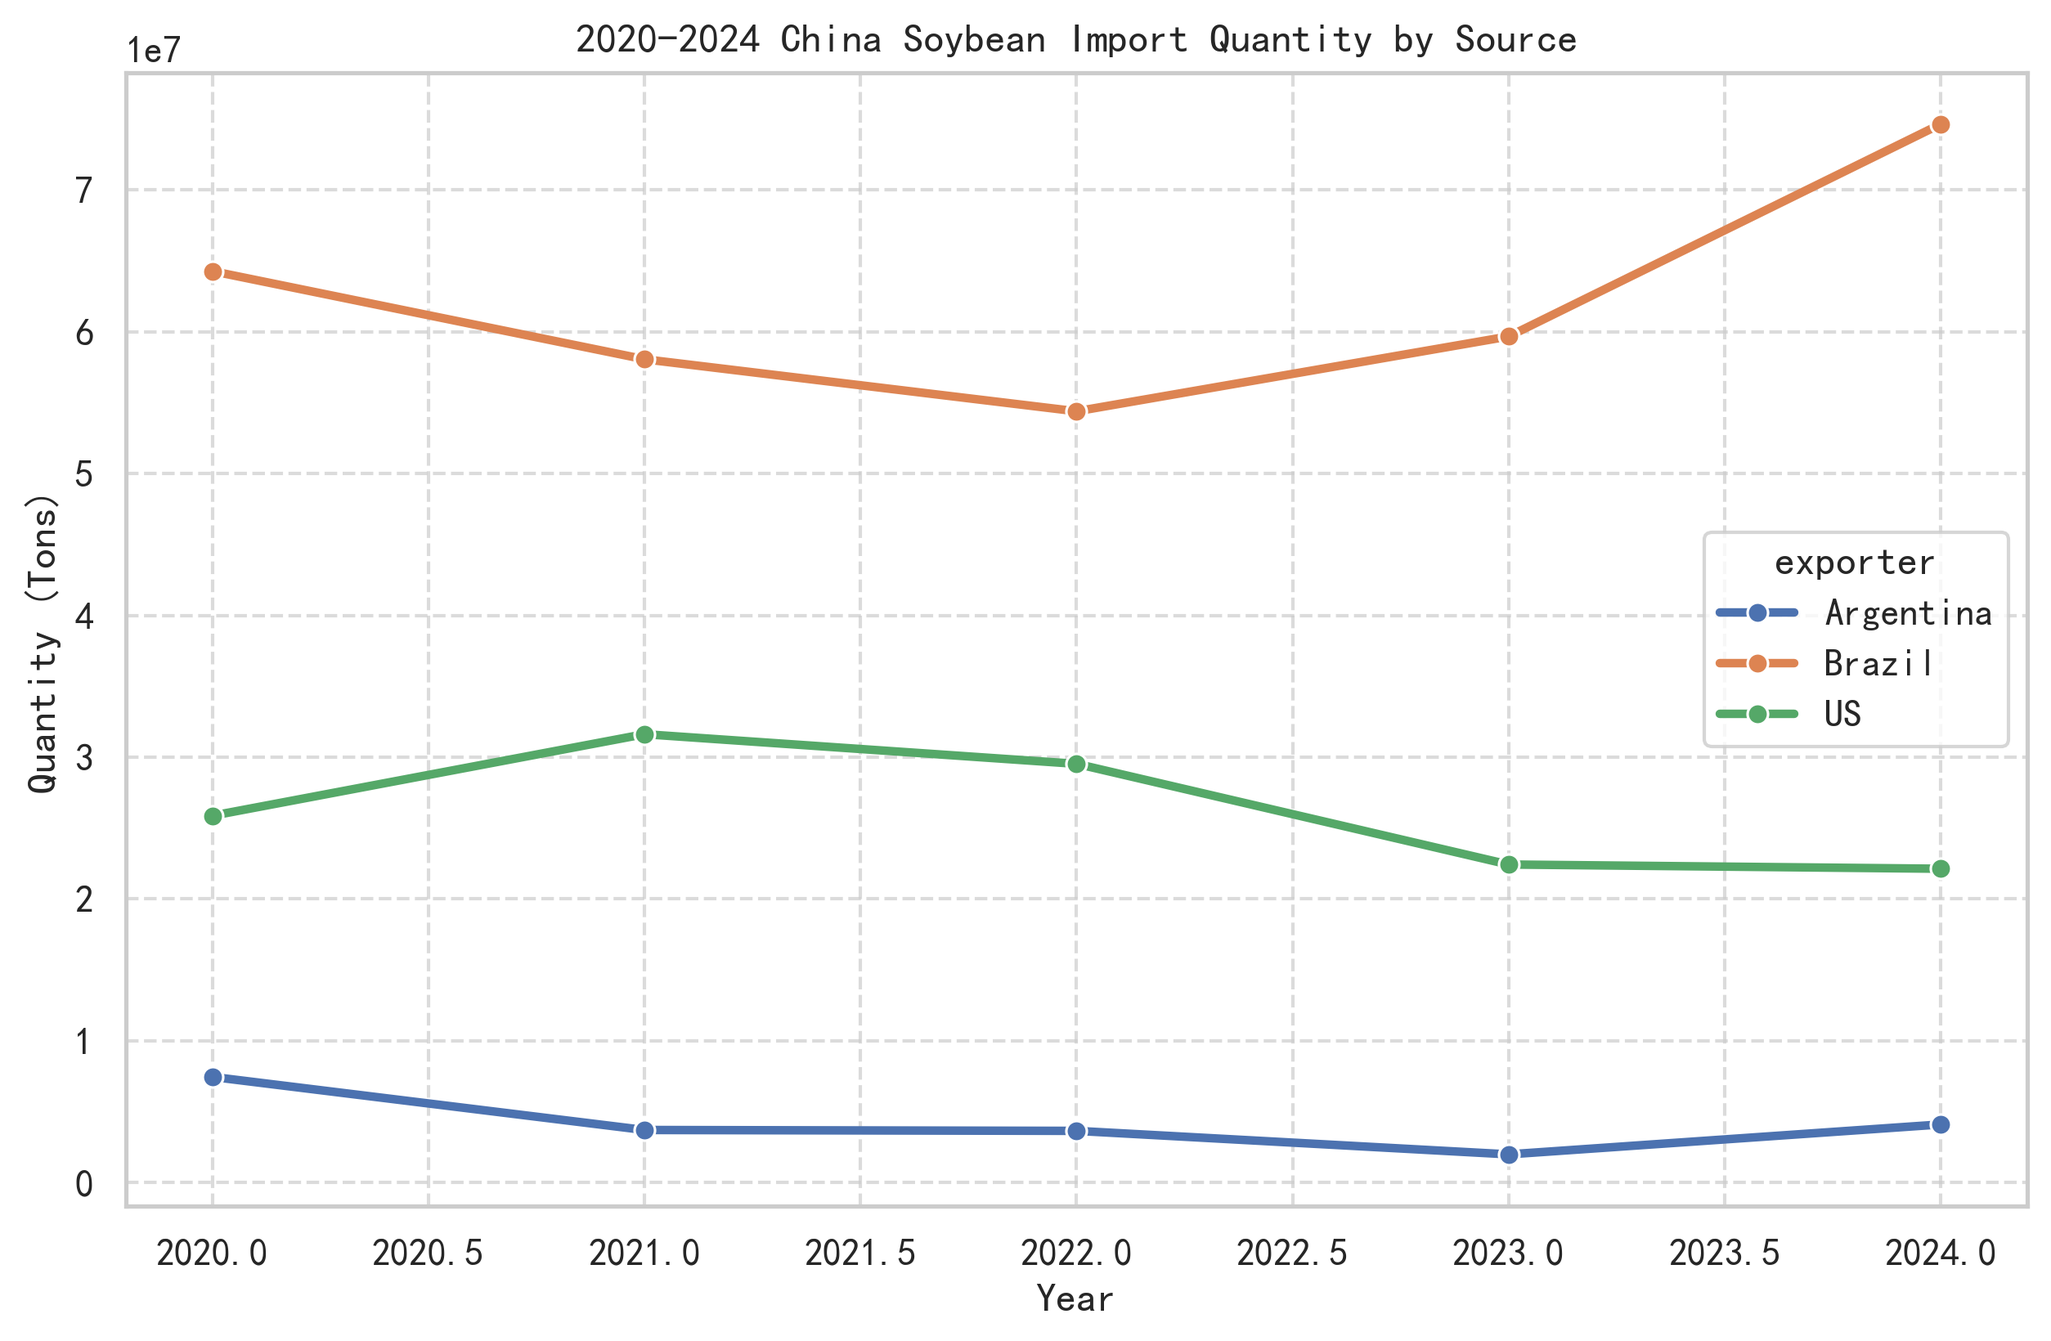
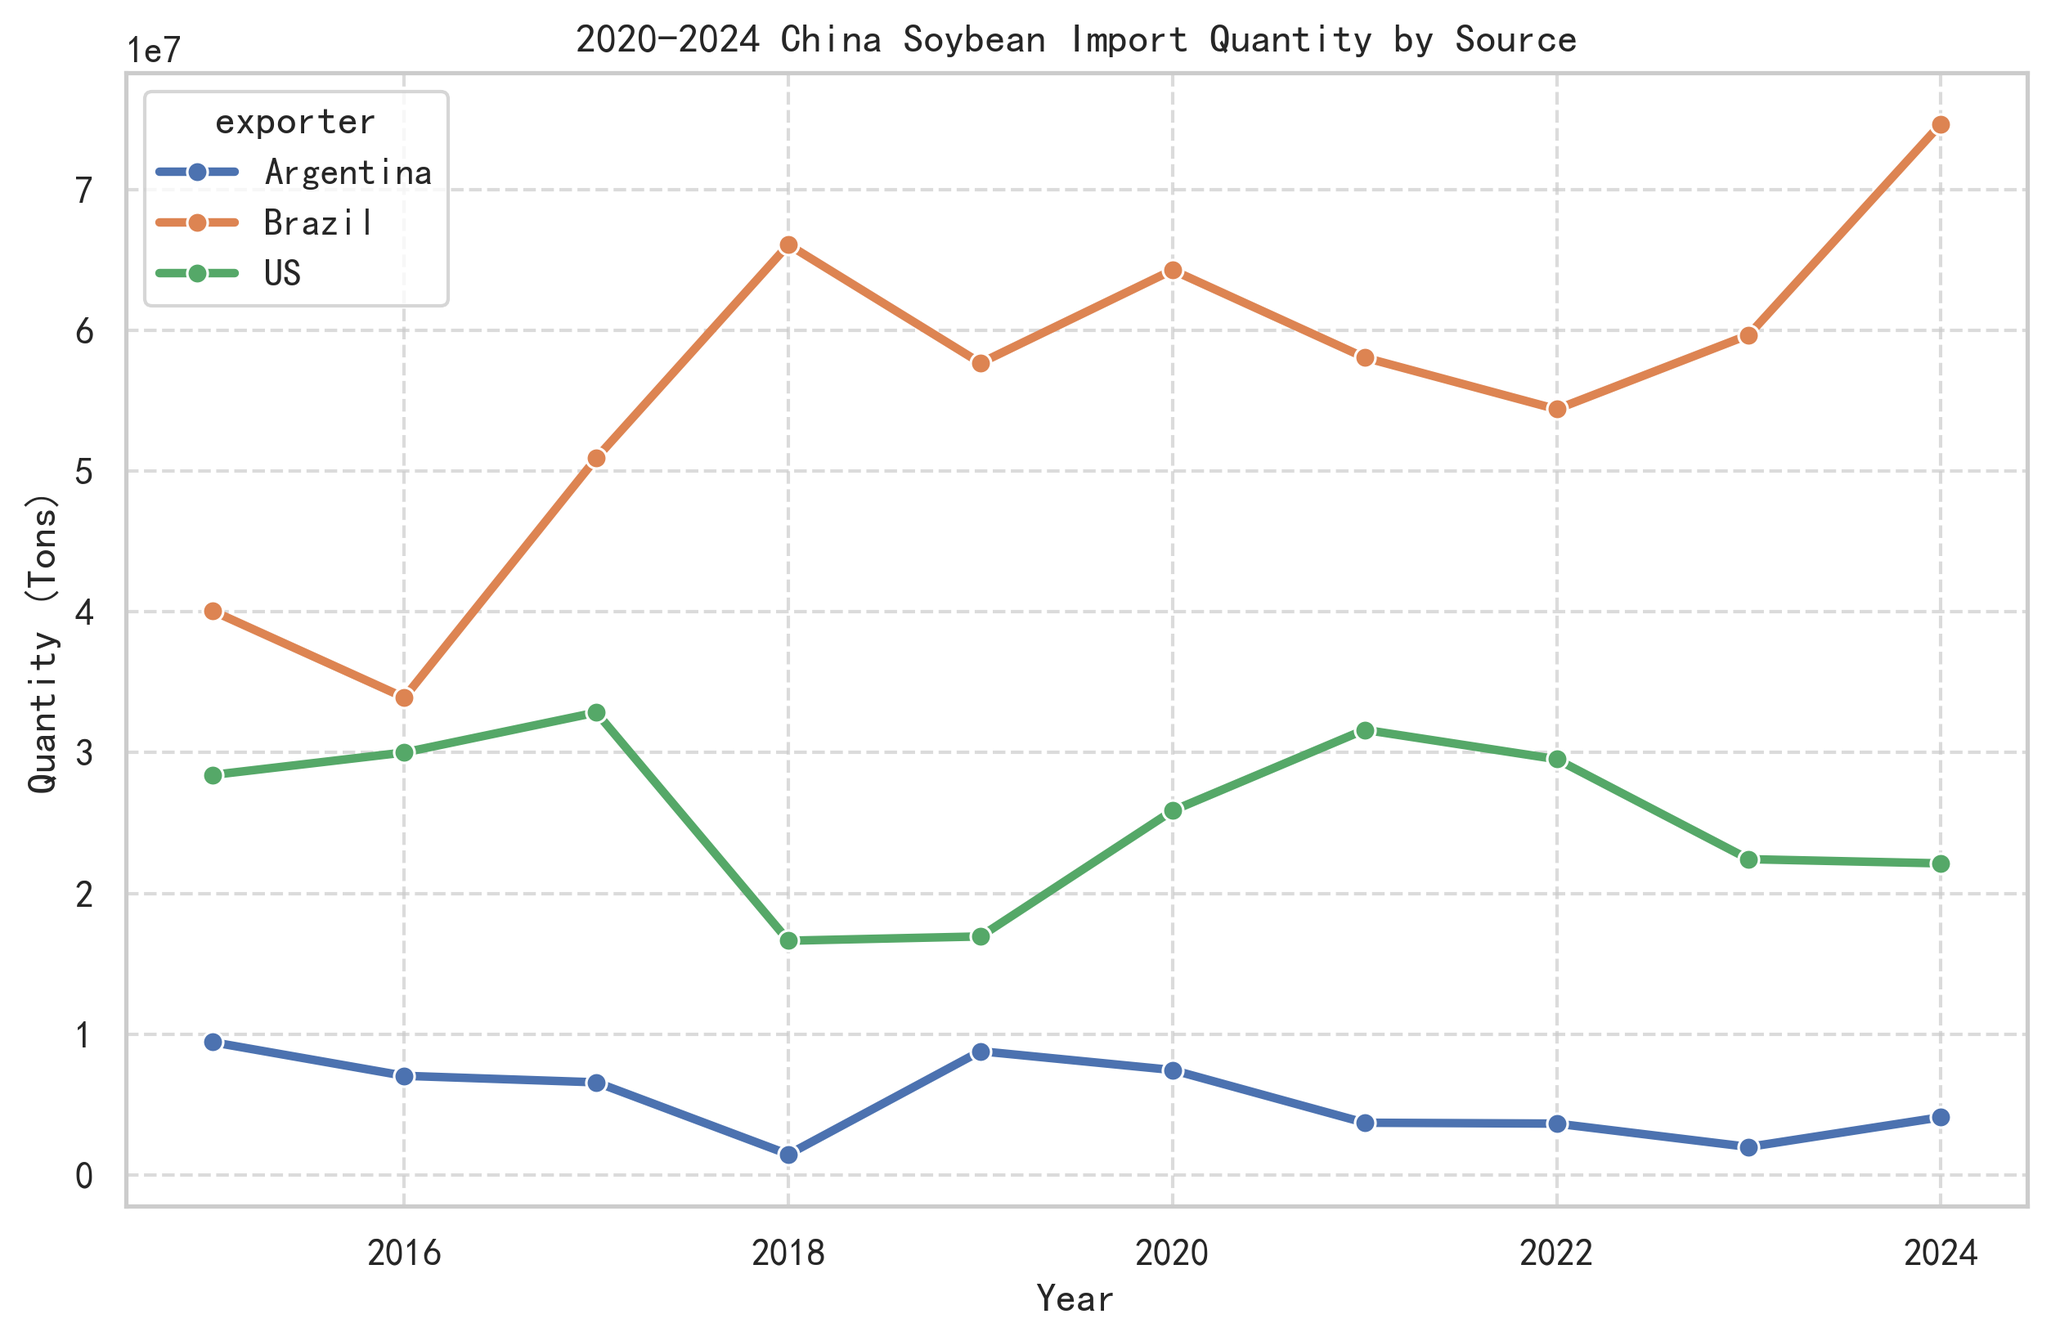
codex

diff --git a/评价与改进.md b/评价与改进.md
@@ -1,0 +1,42 @@
+【项目是否满足要求的总体评价】
+该项目基本满足了问题一所要求的建模任务。它利用了中国从美国、巴西、阿根廷进口大豆的历史数据（涵盖2020–2024年）
+来刻画当前的大豆贸易格局，并采用Armington/CES模型评估关税调整冲击下贸易流量的变化。模型针对性地模拟了美国关税政策调整（通过中国对美大豆加征关税的情景）对美国、巴西和阿根廷三国大豆出口的影响，输出了关税上调后各国大豆出口量和出口额的新分布
+。从数据、模型到结果分析，项目各环节基本围绕题目要求展开，能够为“调整后三国的大豆出口量和出口额分布”这一关键问题提供定量答案
+。总体而言，项目的数据和方法具有合理性，模拟结果能够反映关税冲击下贸易格局的变化，达到了建模任务的主要要求。但同时，模型在考虑行业全局影响的广度和某些经济细节上还有提升空间，后续建议将详细阐述。 【模型优点】
+数据覆盖充分且处理合理：项目使用了权威来源的贸易数据（WITS）获取中国进口大豆的历史记录，涵盖主要出口国美国、巴西、阿根廷以及近年趋势
+。数据中包含所需的进口数量（吨）、贸易额（美元）和关税信息等字段
+，并针对目标国家进行了过滤和清洗
+。通过将数量统一为吨、贸易值换算为美元、计算平均单价等处理，数据质量和一致性有所保障。所选时间范围覆盖2020-2024年，基本反映了当前的贸易现状和中美贸易战背景下的格局，为模型校准提供了可靠基础。聚焦中、美、巴、阿四国符合题目要求，这三大出口国产量占全球绝大部分，也基本满足分析需要。
+模型结构合理，符合经济逻辑：项目采用的Armington模型（基于CES偏好）来模拟中国对不同国家大豆的进口分配。这一模型结构能够体现进口替代效应：即当某一来源的大豆相对价格上升时，中国将部分转而从其他来源进口。模型设定了商品替代弹性 σ（默认为4.0）来控制替代的难易程度，并设有总需求弹性 η（默认为0.8）以反映总体进口量对价格水平的敏感度
+。这样的双重弹性结构保证了模型既能模拟进口份额的重新分配，又能反映总需求因价格变化而扩缩的情况，经济机制逻辑通顺。例如，关税提高使美国产大豆到岸价上升，模型会相应减少中国对美进口并增加对巴西、阿根廷的进口，同时由于总体价格指数上升，模型略微压低总进口量——这些行为符合贸易经济学预期。模型还显式纳入了运费差异和关税率来计算到岸价
+，例如假设美国运费较低（$20/吨）而巴西稍高（$25）等，以反映地理运输成本，对价格和贸易流的影响都有考虑
+。总体而言，模型结构简洁明了，用较少参数捕捉了大豆贸易的主要经济机制。
+代码实现清晰且基本正确：模型代码按照数据读取、参数校准、情景模拟、结果输出的流程组织良好
+。校准部分依据基准年度（2024年）的数据计算各出口国的基期出口量、价和支出份额，据此反推Armington模型的参数（如各国的α权重、总需求系数A_C等），方法标准且有注释说明，确保模型精确通过基期数据点
+。情景模拟函数逐国应用关税和价格变动，重新计算到岸价、价格指数、总需求及各国份额和出口量，代码中的公式与理论模型一致，没有明显逻辑错误。尤其值得一提的是，代码明确地将情景定义与计算分离：首先通过字典设置各国关税变动和FOB价变动，然后在模拟函数中循环计算，这使得不同情景的切换和新增非常方便直观
+。例如，情景1中针对美国设定+25个百分点关税（其余国家关税不变）
+；情景2在此基础上额外假设美国大豆离岸价下降10%、巴西和阿根廷上涨5%，以模拟供需再平衡
+。这些情景设置契合题意，对应了“美国关税调整”引发的不同市场反应。代码在运行情景后，将结果DataFrame保存为CSV，并打印出关键结果列，包括基准量q0、新平衡量q_new、变动绝对值和百分比、关税后市场占有率share_new以及新的出口额V_new等
+。这些输出正是评估关税调整影响所需的指标，覆盖了出口数量和出口额两方面，格式清晰便于后续分析。此外，代码还生成了供应链脆弱性报告，计算并输出了总进口量下降比例和平均价格上涨比例等指标，帮助理解冲击强度
+。总体来看，代码实现了所设想的模型流程，且输出结果的内容和形式都与建模目标吻合，未发现明显计算错误。
+模型输出直接回应了关键问题：模型的情景模拟结果有效回答了题目关心的“关税调整后三国大豆出口量和出口额分布”。具体而言，在情景模拟输出文件中，每个出口国都有其关税冲击前的基准出口量和冲击后的新出口量，以及由此计算的出口量变化（绝对值和百分比）和新的出口市场份额
+。更重要的是，代码计算了各国新的出口额 (V_new)，相当于关税调整后各国从中国市场获得的出口创汇
+。通过这些结果，我们可以直接比较美国、巴西、阿根廷在关税上调后出口中国的大豆吨数和美元值的此消彼长，从而明确三国出口格局的重新分配情况。这正是题目所要求估计的“三国大豆出口量和出口额的调整后分布”。项目还对结果进行了可视化处理，如绘制情景前后各国出口量对比的柱状图和市场份额饼图等，以直观展示美国受关税打击后份额下滑、巴西阿根廷份额上升的情况
+。这些输出图表和数据使得模型结论易于阐释：例如，可以一目了然地看到美国出口量的大幅下降和巴西出口收入的增加幅度。这种结果呈现方式清晰地回应了问题一要求的分析内容。
+模型具有一定的解释性与扩展性：由于模型基于明确的经济假设和参数，结果的驱动因素是可解释的。项目文档列出了关键参数值（σ=4.0，η=0.8 等）以及这些参数的经济含义，并提供了对参数敏感性的分析范围
+。例如，通过敏感性分析，模型考察了替代弹性σ从2到8变化时美国出口降幅的变化，以及需求弹性η从0.1到1.2时总进口量和美国出口的变化
+。代码中实现了对σ和η的循环模拟，将不同参数下美国出口变化率等记录下来
+，并输出到CSV供分析。这种敏感性测试提高了模型解释性：读者可以了解到模型结论对弹性假设的依赖程度，从而理解哪些假设是关键的、结论是否稳健。另一方面，项目结构清晰、模块划分合理，具有良好的可维护性和扩展性。数据清洗、模型计算、结果绘图各自独立，便于替换数据源或调整模型而不影响其他部分
+。模型的参数和情景设定集中在代码开头和定义处，要进行扩展非常方便：例如可以轻松加入其他出口国的数据（只需在目标国家列表和关税函数中扩充
+）、或修改情景关税变化幅度、增加新的情景模拟。README中的说明也提示了如何用官方附件数据替换外部数据、以及如果出现总进口反直觉增长可调整η等
+——这些细节体现出模型在设计时已考虑一定的通用性和调整空间。总体而言，模型简单明了但不失灵活，计算过程和结果都容易理解说明，并为进一步完善预留了接口，是本项目的一大优点。
+【模型不足与改进建议】
+数据范围及完整性不足：目前数据主要聚焦于2020-2024年中国自三国的大豆进口。这覆盖了近年的贸易状况，但在时间跨度上略有限。例如，2018年中美贸易战初启时中国对美大豆加征关税，导致美国出口一度骤降、巴西填补缺口，这些剧烈变化发生在2020年之前。建议拓展历史数据范围（如2015-2019年）以更完整地展现贸易格局演变，从而更充分地分析“中美巴阿大豆贸易现状”。更长的时序数据有助于校准模型弹性参数并验证模型对历史事件的解释力。同时，数据仅限于中国的进口视角，缺乏全球贸易再平衡的信息。在关税冲击下，美国无法对华出口的那部分大豆是否能转销他国、巴西和阿根廷增供中国后对其他买家的出口有何变化，这些都是大豆产业层面的重要影响。目前模型未涉及中国以外的市场。为提升模型对“三国大豆产业影响”的刻画，建议引入其他主要进口国/地区的数据（如欧盟、墨西哥等）或者至少考虑全球供需平衡约束。这可以帮助模型判断美国失去中国市场后能否部分转移出口到别处，从而缓解对产业的冲击程度。如果全面引入全球数据过于复杂，也可以在分析结果时 补充定性讨论 美国可能的贸易转移，以免模型局限于中国市场而低估或高估产业影响。
+供给侧因素与价格机制处理简化：模型目前假设中国可以从巴西、阿根廷无限获取替代大豆，只要价差合适。这种供给无约束的假设在短期内可能不现实：巴西和阿根廷的产能和库存有限，大幅增加对华出口可能推高当地大豆离岸价或耗损库存。项目在情景2中尝试通过人为设定巴西/阿根廷涨价5%、美国降价10%来模拟供需再均衡
+, 这是对供给反应的有益探索。但这种处理是静态且外生的，价格变动幅度缺乏依据。建议在模型中引入供给弹性或价格内生机制。一种改进思路是在Armington需求模型之外增加出口国供给曲线：例如假设出口国有一定的供给弹性，当对华需求增加时，其离岸价上升；反之美国失去部分需求时，必须降价促销到其他市场。可以将中国作为一个大买方，将其进口需求与三国供给用市场出清条件联立求解，得到新的均衡价和量。这相当于构建一个部分均衡模型，让价格由供需共同决定，而不需要预设价格变动幅度。这样的扩展虽然增加模型复杂度，但能更真实地反映关税冲击对全球大豆价格和贸易流向的影响。例如，美国对华出口减少会在芝加哥大豆价格上体现，进而影响全球贸易；巴西对华出口暴增可能导致国内库存不足、价格上涨影响其他买家。整合这些效应将使对“三国大豆产业”的分析更全面。若全面建模有难度，也可分情景多方案尝试：例如用不同的美国降价幅度和巴西提价幅度情景（5%、10%等）进行敏感性分析，以了解供给约束可能带来的不确定性。
+模型复杂度与现实细节的权衡：目前模型选择了单一商品的静态分析框架，忽略了动态和跨品替代等复杂情形。虽然这样简化在竞赛要求范围内是合理的，但从改进角度可以探讨增加模型层次的可能性。例如，可以考虑动态调整：关税冲击对大豆产业的影响可能在第二年种植季反映为播种面积调整，进而影响产量和价格。模型目前静态地看短期冲击，如果要评估中期影响，可以在现有模型基础上滚动模拟几年或结合简单的库存/产能调整规则。又如，国内替代和需求变化：当进口大豆价格大涨，中国可能增加国产大豆种植或寻求其他蛋白粕替代（菜籽粕、葵花籽等）。这些都是产业层面的反馈。目前模型用总需求弹性η来简单表示“大豆需求减少”
+，但没有区分是由于饲料配方改变还是养殖规模缩减。若要提高模型对产业适应行为的描述，可考虑引入一些替代品市场或者国产供给的模块。不过，这会显著提高复杂度，在竞赛要求之外属进一步研究方向。在改进时需权衡模型复杂度和解释透明度：过于复杂的模型可能引入过多假设反而降低结果可信度。因此建议在保持模型简洁性的同时，通过情景分析和定性讨论去补充说明这些现实细节，而不一定要把它们全部纳入模型计算。
+经济假设及参数设定改进：模型中若干参数是假设值，改进时可结合文献和数据进行校准。例如，替代弹性σ=4在缺乏解释的情况下给出。虽然4.0作为大宗农产品替代弹性听起来合理（意味着不同来源大豆具有较高但非完全的可替代性），但更严谨的做法是参考历史数据或研究：比如利用2018年中国对美加征关税前后的进口份额变化来倒推弹性估计，或参考已有学术文献中的估计值。如果发现文献值与当前假设有偏差，可以相应调整模型并重新模拟。需求弹性η=0.8同理，可查找中国大豆进口对价敏感度的研究佐证这一数值。项目已经对弹性参数进行了广泛的敏感性分析，这表明结论在一定范围内稳健，但精调参数能让模型更贴近现实。另一假设是关税和贸易政策本身。模型默认2024年基准关税为美国28%、巴西/阿根廷3%，这反映了贸易战时期对美惩罚性关税持续存在。实际上近年中国也曾对部分美国大豆给予关税豁免以履行采购承诺，有效关税率可能低于名义值。项目简化处理为统一的28%，在改进时可以考虑使用更精细的有效关税数据（例如实际征收率或配额内外税率）来提高基准情景的准确性。同样地，情景1假设再加征25个百分点关税，使美国大豆税率达53%。这一冲击情景偏极端（相当于彻底封杀美国大豆的极端情况），尽管契合题目“美国提高关税引发中方强烈报复”的背景，但也可以探讨其他情景：比如关税降低的情景（如果中美达成协议取消额外关税，美国大豆重获竞争力）或中等幅度调整的情景。通过对比多种情景，模型可以提供更加丰富的政策情景分析结果，帮助决策者理解不同政策选项下的产业影响。
+结果展示与解读方面：项目的输出主要以数据表和图表形式给出，建议在完善报告时增加对结果的经济学解读。例如，在报告中阐明：“情景1下美国对华出口量大幅减少X万吨（下降Y%），出口额损失Z亿美元；巴西和阿根廷则相应增加出口，其中巴西增幅最大，市场份额由A%上升到B%，额外收益多少”等。这些要点其实已能从模型结果
+中提炼，但需要在文字分析中明确指出并结合背景分析含义。另外，可进一步讨论产业链影响：美国大豆出口受挫可能导致美豆国内库存积压、压低国内价格并影响农民收益；巴西的出口激增可能导致运力紧张或本国大豆价格上涨影响畜牧业等。虽然这些影响未在模型中直接体现，但基于模型输出可以推断，从而丰富对“三国大豆产业”的分析，提升报告的说服力和完整性。最后，从读者理解出发，可在技术附录中提供模型公式推导或关键计算步骤解释，使模型更具透明度。当前README列出了主要假设，但缺少对公式原理的文字说明，添加这部分有助于读者（尤其是经济学背景一般的决策者）更好地理解模型可信度。例如解释Armington弹性含义、为何采用CES函数等，都将提高模型的解释性。
+总之，项目已成功搭建了大豆贸易冲击分析的基本框架，数据和模型均较为贴题且有效。改进建议主要集中在拓宽数据广度、增强供需反馈机制、细化参数和情景设置等方面，以使模型更全面真实地反映复杂经济现实。在保证模型简明可用的前提下逐步引入这些改进，将进一步提升本项目对政策问题的分析深度和实用价值。
